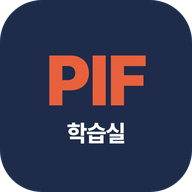
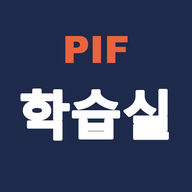
학습실 10.25-2: 앱 아이콘 '학습실' 글자 크게 (위에 작은 PIF), 캐시 v7

diff --git a/index.html b/index.html
@@ -491,7 +491,7 @@ html.fz2 #vApp,html.fz2 #nav{zoom:1.25}
       <div class="help">로그인이 안 되면 학원 <a id="loginTel"></a></div>
       <div class="installSlot"></div>
       <div style="text-align:center;margin-top:10px"><button type="button" class="linkbtn" id="toAdmin">선생님 로그인</button></div>
-      <div class="ver">버전 10.25-1</div>
+      <div class="ver">버전 10.25-2</div>
     </form>
     <form class="sheet" id="adminForm" autocomplete="on" novalidate hidden>
       <h2 style="font-size:20px;font-weight:900;margin-bottom:16px">선생님 로그인</h2>

diff --git a/sw.js b/sw.js
@@ -1,7 +1,7 @@
 // PIF 학습실 서비스 워커 — 화면 파일만 보관 (학습 데이터·로그인은 저장하지 않음)
 // 푸시 알림(OneSignal)도 이 파일 하나로 처리합니다. 불러오기 실패해도 앱은 그대로 작동.
 try { importScripts('https://cdn.onesignal.com/sdks/web/v16/OneSignalSDK.sw.js'); } catch (e) {}
-const CACHE = 'pif-shell-v6';
+const CACHE = 'pif-shell-v7';
 const SHELL = ['./', './index.html', './manifest.webmanifest', './icon-192.png', './icon-512.png'];
 
 self.addEventListener('install', e => {
